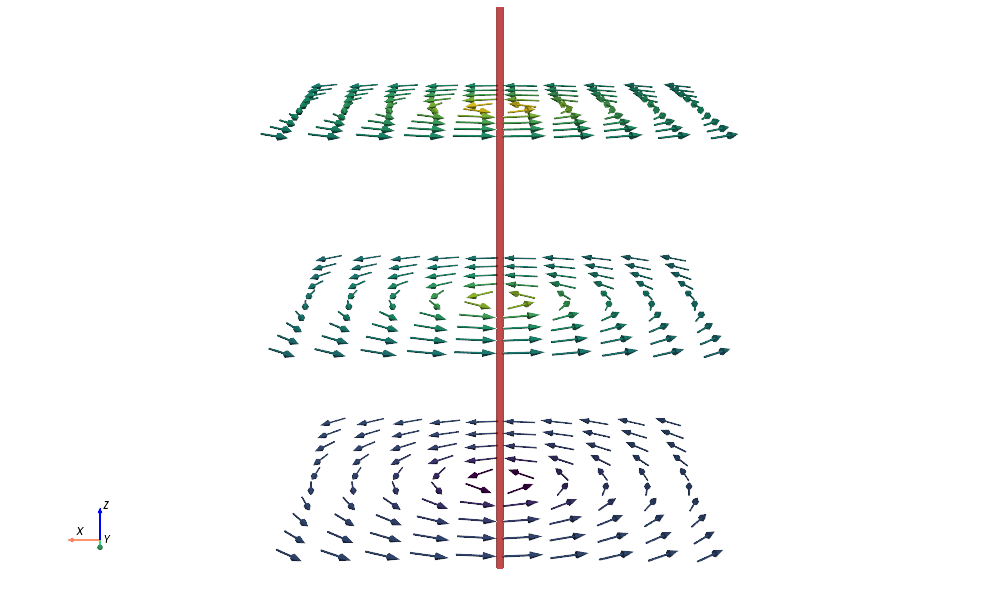
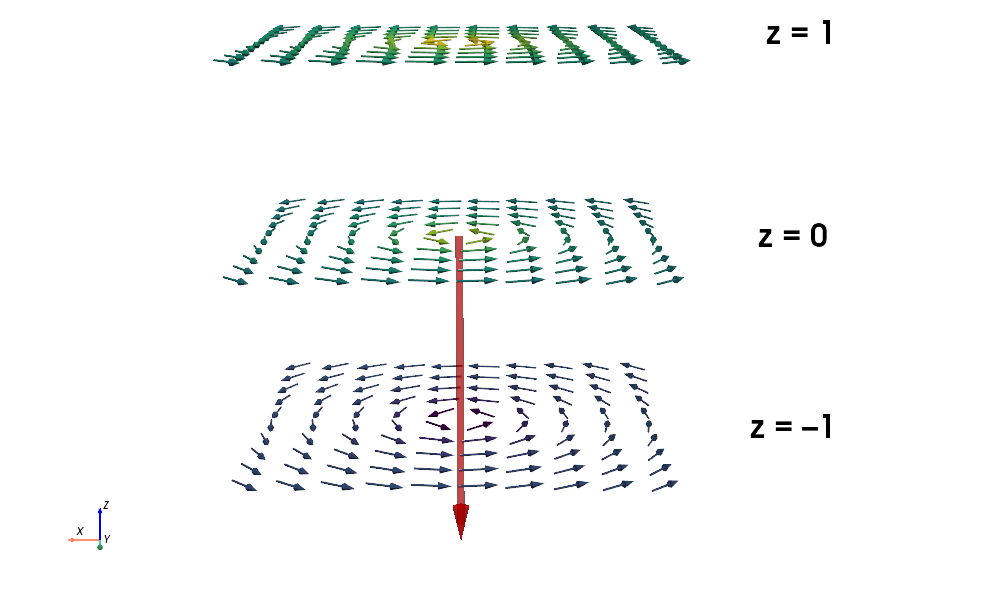
Fixed visualization of line singularity

diff --git a/dirac_A.py b/dirac_A.py
@@ -52,13 +52,25 @@ plotter.renderer.SetBackgroundAlpha(0)
 
 plotter.add_mesh(glyphs, scalars="magnitude", cmap="viridis", show_scalar_bar=False)
 
-# --- Dirac-String als roter Zylinder (vollständig durch das Volumen) ---
-string_center = (0, 0, 0)         # Zentrum bei z = 0
-string_height = 3.0
+# --- Dirac-String als roter Zylinder (nur von z=0 nach z=-zl) ---
+zl = 1.6
+string_center = (0, 0, -zl/2)
+string_height = zl
 string_radius = 0.02
-dirac_string = pv.Cylinder(center=string_center, direction=(0, 0, 1),
+dirac_string = pv.Cylinder(center=string_center, direction=(0, 0, -1),
                            radius=string_radius, height=string_height)
 plotter.add_mesh(dirac_string, color="red", opacity=0.6)
+
+# --- Pfeilspitze am Ende des Dirac-Strings (bei z = -zl) ---
+arrow_tip = pv.Cone(center=(0, 0, -zl), direction=(0, 0, -1),
+                    height=0.2, radius=0.05)
+plotter.add_mesh(arrow_tip, color="red", opacity=0.8)
+
+# --- Beschriftung der z-Ebenen ---
+plotter.add_point_labels([ (-1.5, .4, -1), (-1.5, .4, 0), (-1.5, .4, 1) ],
+                         ["z = –1", "z = 0", "z = 1"],
+                         font_size=32, text_color="black", point_color="white",
+                         shape_opacity=0.0, always_visible=True)
 
 # --- Kamera ---
 plotter.view_vector([0, 8, 2], viewup=[0, 0, 1])
